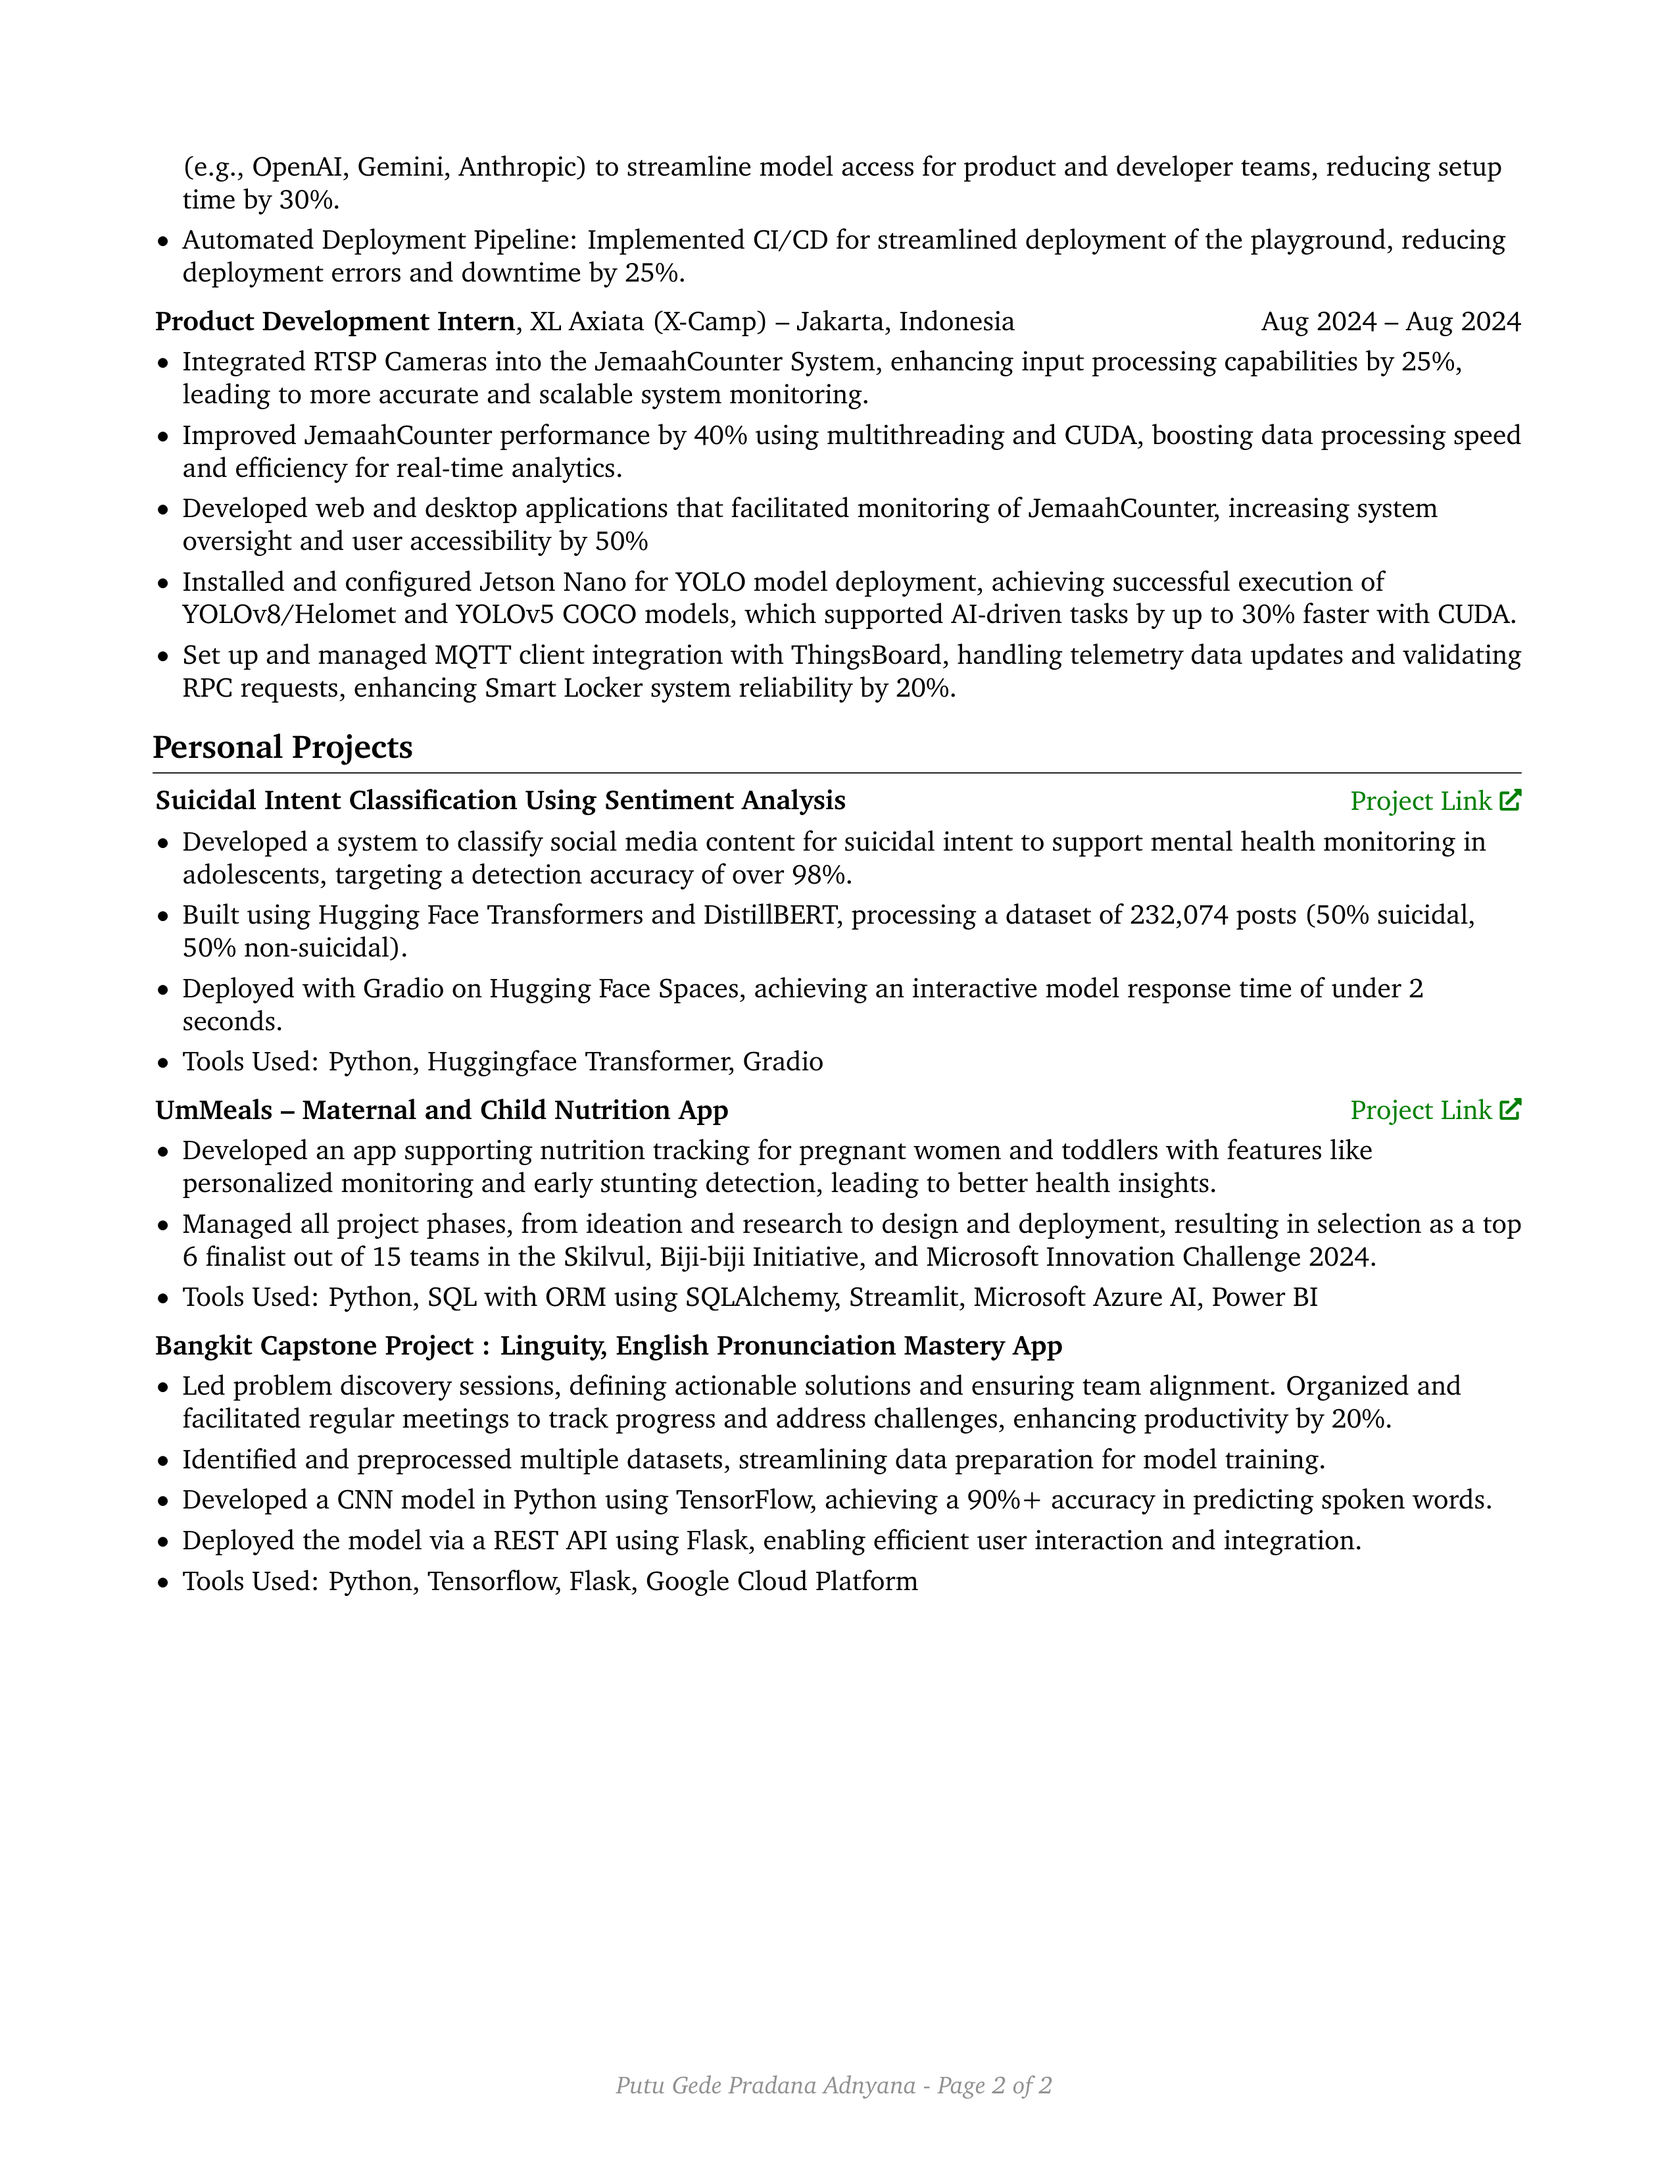
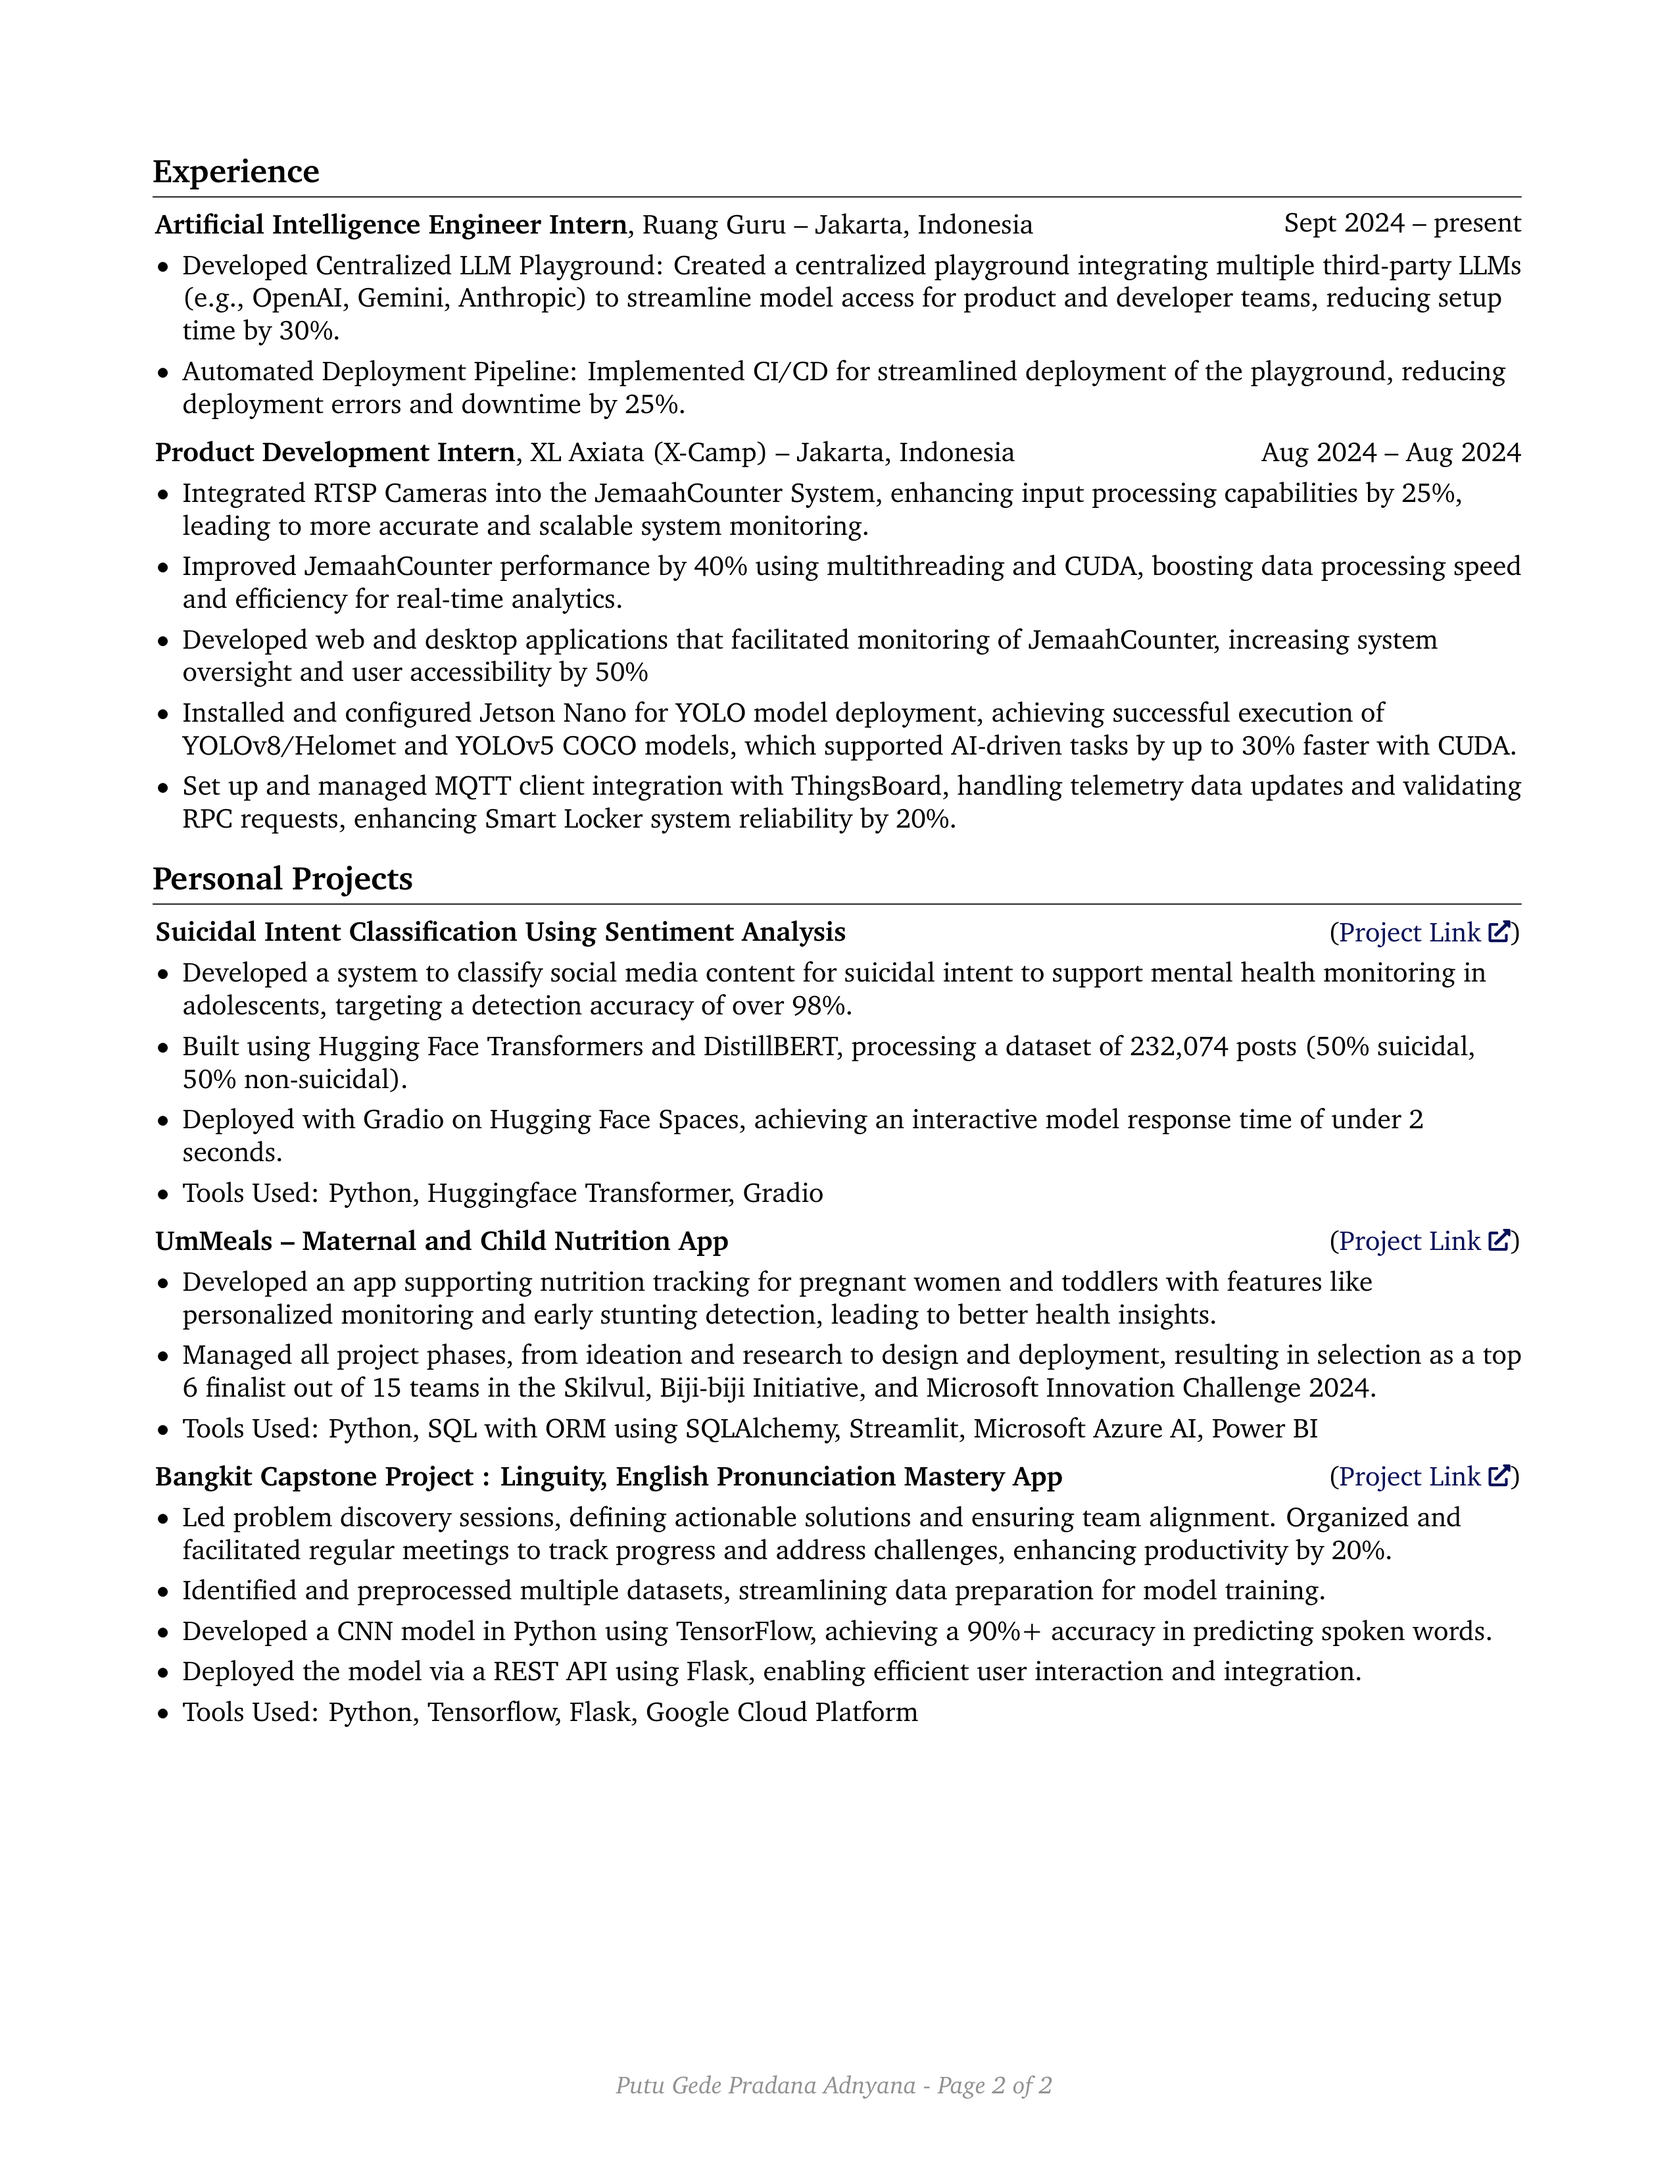
change Bangkit transcript link

Changed region(s): [[0.0929, 0.0624, 0.8984, 0.8115], [0.8675, 0.6555, 0.8984, 0.6867]]

diff --git a/rendercv_output/Putu_Gede_Pradana_Adnyana_CV.html b/rendercv_output/Putu_Gede_Pradana_Adnyana_CV.html
@@ -59,7 +59,7 @@
         <h2>Bangkit by Google, Goto and Traveloka, Machine Learning</h2>
         <ul>
         <li>Feb 2023 – July 2023</li>
-        <li>GPA: 95 (<a href="https://drive.google.com/file/d/1zavbSHSpPOePGauqHs-WYxpkUhOqOrRa/view">Transcripts</a>)</li>
+        <li>GPA: 95 (<a href="https://drive.google.com/file/d/1JOm2b6ws9PepLZTCV8uZDdDENN64KT7d/view?usp=sharing">Transcripts</a>)</li>
         <li><strong>Coursework:</strong> Python, Data analytics, Mathemathics for Machine Learning, Machine Learning, Deep learning with Tensorflow, ML Deployment</li>
         </ul>
         <h1>Technical Skills</h1>
@@ -68,6 +68,7 @@
         <li>Data Analysis and Manipulation: Pandas, Numpy</li>
         <li>Data Vizualization: Seaborn, Matplotlib, Plotly, Tableau</li>
         <li>Machine Learning Modeling: Pytorch, Tensorflow, Sklearn, Huggingface Transformer</li>
+        <li>Large Language Model: Langchain, VertexAI, OpenAI, Anthropic</li>
         <li>Deployment: Flask, FastAPI, Docker, Git, Streamlit, Gradio</li>
         <li>Cloud Service: Azure AI Service</li>
         </ul>
@@ -98,7 +99,7 @@
         <h1>Personal Projects</h1>
         <h2>Suicidal Intent Classification Using Sentiment Analysis</h2>
         <ul>
-        <li><a href="https://github.com/pradanaadn/sucidal-text-classification">Project Link</a></li>
+        <li>(<a href="https://github.com/pradanaadn/sucidal-text-classification">Project Link</a>)</li>
         <li>Developed a system to classify social media content for suicidal intent to support mental health monitoring in adolescents, targeting a detection accuracy of over 98%.</li>
         <li>Built using Hugging Face Transformers and DistillBERT, processing a dataset of 232,074 posts (50% suicidal, 50% non-suicidal).</li>
         <li>Deployed with Gradio on Hugging Face Spaces, achieving an interactive model response time of under 2 seconds.</li>
@@ -106,13 +107,14 @@
         </ul>
         <h2>UmMeals – Maternal and Child Nutrition App</h2>
         <ul>
-        <li><a href="https://github.com/Talenta-AI-2">Project Link</a></li>
+        <li>(<a href="https://github.com/Talenta-AI-2">Project Link</a>)</li>
         <li>Developed an app supporting nutrition tracking for pregnant women and toddlers with features like personalized monitoring and early stunting detection, leading to better health insights.</li>
         <li>Managed all project phases, from ideation and research to design and deployment, resulting in selection as a top 6 finalist out of 15 teams in the Skilvul, Biji-biji Initiative, and Microsoft Innovation Challenge 2024.</li>
         <li>Tools Used: Python, SQL with ORM using SQLAlchemy, Streamlit, Microsoft Azure AI, Power BI </li>
         </ul>
         <h2>Bangkit Capstone Project : Linguity, English Pronunciation Mastery App</h2>
         <ul>
+        <li>(<a href="https://github.com/Linguity">Project Link</a>)</li>
         <li>Led problem discovery sessions, defining actionable solutions and ensuring team alignment. Organized and facilitated regular meetings to track progress and address challenges, enhancing productivity by 20%.</li>
         <li>Identified and preprocessed multiple datasets, streamlining data preparation for model training.</li>
         <li>Developed a CNN model in Python using TensorFlow, achieving a 90%+ accuracy in predicting spoken words.</li>

diff --git a/rendercv_output/Putu_Gede_Pradana_Adnyana_CV.tex b/rendercv_output/Putu_Gede_Pradana_Adnyana_CV.tex
@@ -14,7 +14,7 @@
 \usepackage{tabularx} % for making tables with fixed width columns
 \usepackage{array} % tabularx requires this
 \usepackage[dvipsnames]{xcolor} % for coloring text
-\definecolor{primaryColor}{RGB}{0, 128, 0} % define primary color
+\definecolor{primaryColor}{RGB}{9, 16, 87} % define primary color
 \usepackage{enumitem} % for customizing lists
 \usepackage{fontawesome5} % for using icons
 \usepackage{amsmath} % for math
@@ -256,7 +256,7 @@
         \vspace{0.10 cm}
         \begin{onecolentry}
             \begin{highlights}
-                \item GPA: 95 (\href{https://drive.google.com/file/d/1zavbSHSpPOePGauqHs-WYxpkUhOqOrRa/view}{Transcripts})
+                \item GPA: 95 (\href{https://drive.google.com/file/d/1JOm2b6ws9PepLZTCV8uZDdDENN64KT7d/view?usp=sharing}{Transcripts})
                 \item \textbf{Coursework:} Python, Data analytics, Mathemathics for Machine Learning, Machine Learning, Deep learning with Tensorflow, ML Deployment
             \end{highlights}
         \end{onecolentry}
@@ -289,6 +289,12 @@
 
         \begin{onecolentry}
             \textbf{Machine Learning Modeling:} Pytorch, Tensorflow, Sklearn, Huggingface Transformer
+        \end{onecolentry}
+
+        \vspace{0.2 cm}
+
+        \begin{onecolentry}
+            \textbf{Large Language Model:} Langchain, VertexAI, OpenAI, Anthropic
         \end{onecolentry}
 
         \vspace{0.2 cm}
@@ -384,7 +390,7 @@
 
         
         \begin{twocolentry}{
-            \href{https://github.com/pradanaadn/sucidal-text-classification}{Project Link}
+            (\href{https://github.com/pradanaadn/sucidal-text-classification}{Project Link})
         }
             \textbf{Suicidal Intent Classification Using Sentiment Analysis}\end{twocolentry}
 
@@ -402,7 +408,7 @@
         \vspace{0.2 cm}
 
         \begin{twocolentry}{
-            \href{https://github.com/Talenta-AI-2}{Project Link}
+            (\href{https://github.com/Talenta-AI-2}{Project Link})
         }
             \textbf{UmMeals – Maternal and Child Nutrition App}\end{twocolentry}
 
@@ -418,8 +424,10 @@
 
         \vspace{0.2 cm}
 
-        \begin{onecolentry}
-            \textbf{Bangkit Capstone Project : Linguity, English Pronunciation Mastery App}\end{onecolentry}
+        \begin{twocolentry}{
+            (\href{https://github.com/Linguity}{Project Link})
+        }
+            \textbf{Bangkit Capstone Project : Linguity, English Pronunciation Mastery App}\end{twocolentry}
 
         \vspace{0.10 cm}
         \begin{onecolentry}

diff --git a/rendercv_output/Putu_Gede_Pradana_Adnyana_CV.md b/rendercv_output/Putu_Gede_Pradana_Adnyana_CV.md
@@ -30,7 +30,7 @@ Highly motivated and results-oriented Electrical Engineering student  with a str
 ## Bangkit by Google, Goto and Traveloka, Machine Learning
 
 - Feb 2023 – July 2023
-- GPA: 95 ([Transcripts](https://drive.google.com/file/d/1zavbSHSpPOePGauqHs-WYxpkUhOqOrRa/view))
+- GPA: 95 ([Transcripts](https://drive.google.com/file/d/1JOm2b6ws9PepLZTCV8uZDdDENN64KT7d/view?usp=sharing))
 - **Coursework:** Python, Data analytics, Mathemathics for Machine Learning, Machine Learning, Deep learning with Tensorflow, ML Deployment
 
 # Technical Skills
@@ -39,6 +39,7 @@ Highly motivated and results-oriented Electrical Engineering student  with a str
 - Data Analysis and Manipulation: Pandas, Numpy
 - Data Vizualization: Seaborn, Matplotlib, Plotly, Tableau
 - Machine Learning Modeling: Pytorch, Tensorflow, Sklearn, Huggingface Transformer
+- Large Language Model: Langchain, VertexAI, OpenAI, Anthropic
 - Deployment: Flask, FastAPI, Docker, Git, Streamlit, Gradio
 - Cloud Service: Azure AI Service
 # Soft Skills
@@ -76,7 +77,7 @@ Tensorflow Developer Certificate, Microsoft Certified: Azure AI Engineer Associa
 
 ## Suicidal Intent Classification Using Sentiment Analysis
 
-- [Project Link](https://github.com/pradanaadn/sucidal-text-classification)
+- ([Project Link](https://github.com/pradanaadn/sucidal-text-classification))
 - Developed a system to classify social media content for suicidal intent to support mental health monitoring in adolescents, targeting a detection accuracy of over 98%.
 - Built using Hugging Face Transformers and DistillBERT, processing a dataset of 232,074 posts (50% suicidal, 50% non-suicidal).
 - Deployed with Gradio on Hugging Face Spaces, achieving an interactive model response time of under 2 seconds.
@@ -84,13 +85,14 @@ Tensorflow Developer Certificate, Microsoft Certified: Azure AI Engineer Associa
 
 ## UmMeals – Maternal and Child Nutrition App
 
-- [Project Link](https://github.com/Talenta-AI-2)
+- ([Project Link](https://github.com/Talenta-AI-2))
 - Developed an app supporting nutrition tracking for pregnant women and toddlers with features like personalized monitoring and early stunting detection, leading to better health insights.
 - Managed all project phases, from ideation and research to design and deployment, resulting in selection as a top 6 finalist out of 15 teams in the Skilvul, Biji-biji Initiative, and Microsoft Innovation Challenge 2024.
 - Tools Used: Python, SQL with ORM using SQLAlchemy, Streamlit, Microsoft Azure AI, Power BI 
 
 ## Bangkit Capstone Project : Linguity, English Pronunciation Mastery App
 
+- ([Project Link](https://github.com/Linguity))
 - Led problem discovery sessions, defining actionable solutions and ensuring team alignment. Organized and facilitated regular meetings to track progress and address challenges, enhancing productivity by 20%.
 - Identified and preprocessed multiple datasets, streamlining data preparation for model training.
 - Developed a CNN model in Python using TensorFlow, achieving a 90%+ accuracy in predicting spoken words.
